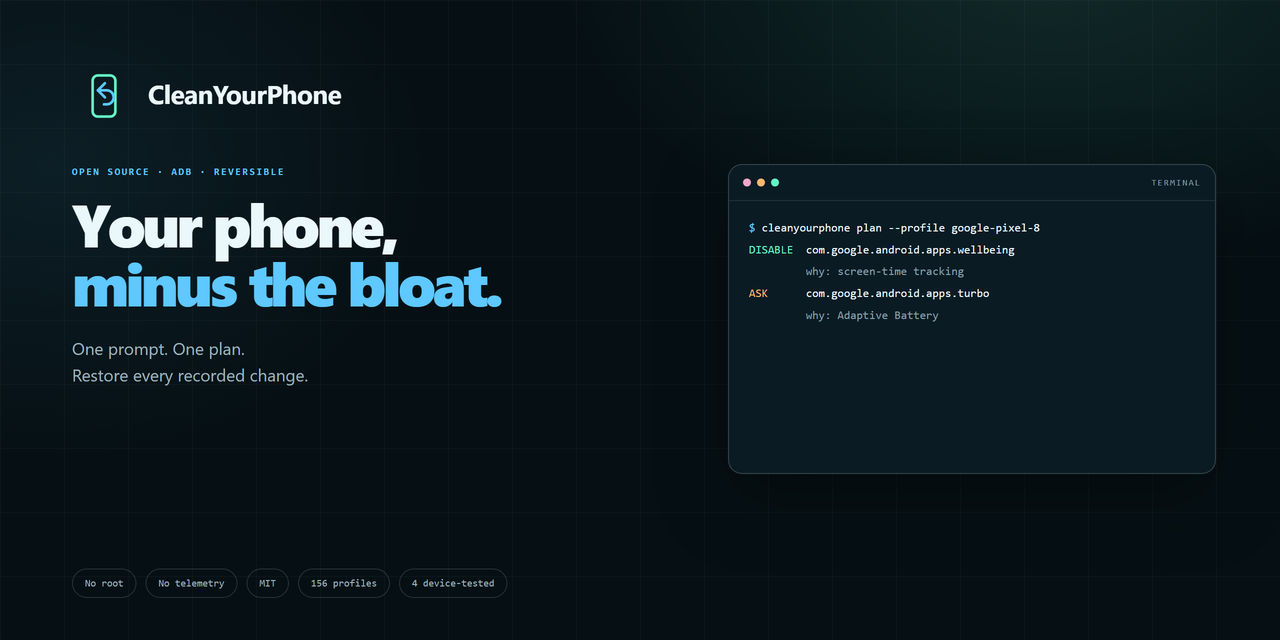
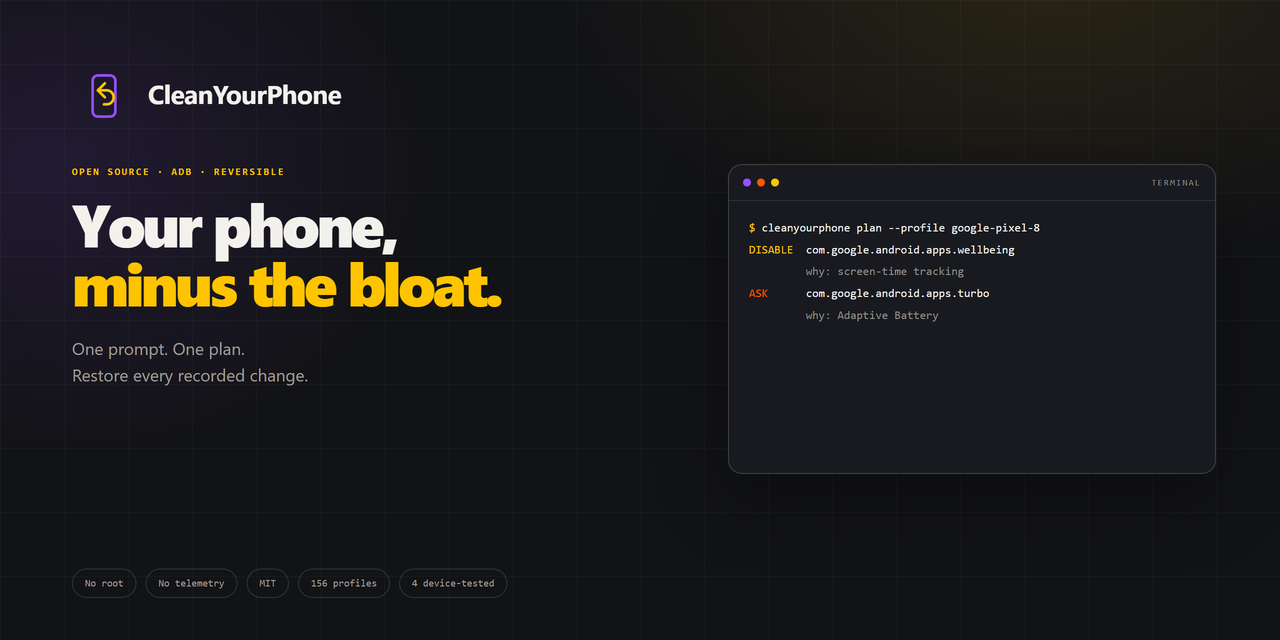
brand: switch to the amber/violet palette
- Use graphite #121316, violet #9650FF, amber #FFC400 and warning orange #FF5500.\n- Update all logo variants, README badges, banner and social preview.\n- Keep the contained-return mark and the CleanYourPhone name.

diff --git a/docs/BRAND.md b/docs/BRAND.md
@@ -46,13 +46,14 @@ never irreversible deletion.
 
 | Color | Role |
 |---|---|
-| Navy `#061014` | Primary background, icon tile, one-color mark on light surfaces. |
-| Mint `#64F4C4` | Phone structure, stability, confirmed states and what stays intact. |
-| Cyan `#5EC8FF` | Return gesture, actions, links, commands and active information. |
-| Text `#EAF7FB` | Headlines and wordmark on navy. |
-| Muted `#9DB4BF` | Secondary text; never part of the essential symbol. |
+| Graphite `#121316` | Primary background, icon tile, one-color mark on light surfaces. |
+| Violet `#9650FF` | Phone structure, links, secondary states and what stays intact. |
+| Amber `#FFC400` | Return gesture, primary actions, commands and active information. |
+| Orange `#FF5500` | Only `ASK` and warning states; never a decorative accent. |
+| Text `#F3F1EC` | Headlines and wordmark on graphite. |
+| Muted `#A19E96` | Secondary text; never part of the essential symbol. |
 
-Cyan and mint are functional accents, not decoration or gradients.
+Amber, violet and orange are functional accents, not decoration or gradients.
 
 ## Typography
 
@@ -74,7 +75,7 @@ from the previous mark is retired because it reads as generic "magic cleaner".
 |---|---|
 | `assets/logo.svg` | Primary app-icon tile, 64×64, dark background. |
 | `assets/favicon.svg` | Simplified 32×32 favicon. |
-| `assets/logo-mark.svg` | Mark-only, transparent, cyan/mint. |
+| `assets/logo-mark.svg` | Mark-only, transparent, violet/amber. |
 | `assets/logo-mono.svg` | One-color mark for light backgrounds. |
 | `assets/logo-lockup.svg` | Horizontal mark + wordmark for dark backgrounds. |
 | `assets/logo-lockup-mono.svg` | Horizontal mark + wordmark for light backgrounds. |
@@ -90,8 +91,8 @@ The same files exist in `cleanyourphone-web/assets/` for the website.
 
 ### Color use
 
-- Dark backgrounds: primary tile or the cyan/mint mark.
-- Light backgrounds: the monochrome `#061014` mark or mono lockup. Do not put the cyan/mint mark on
+- Dark backgrounds: primary tile or the violet/amber mark.
+- Light backgrounds: the monochrome `#121316` mark or mono lockup. Do not put the violet/amber mark on
   white or busy imagery.
 - Do not use color as the only state indicator in UI; pair it with a label.
 
@@ -109,7 +110,7 @@ The same files exist in `cleanyourphone-web/assets/` for the website.
   full lockup there; it would duplicate the name.
 - **Footer:** the same tile at 26 px.
 - **Favicon:** `assets/favicon.svg`; check it in light and dark browser tabs.
-- **README banner:** navy background, large lockup, tagline and plenty of negative space. Export PNG
+- **README banner:** graphite background, large lockup, tagline and plenty of negative space. Export PNG
   at high resolution and keep both repositories in sync.
 - **Social preview:** 1280×640 with the lockup and tagline as the main hierarchy. No mockups,
   sparkles or small print; the symbol must survive the thumbnail.

diff --git a/README.es.md b/README.es.md
@@ -19,11 +19,11 @@
 
 <p align="center">
   <a href="https://github.com/jparedesDS/cleanyourphone/actions/workflows/ci.yml"><img src="https://github.com/jparedesDS/cleanyourphone/actions/workflows/ci.yml/badge.svg" alt="CI"></a>
-  <img src="https://img.shields.io/badge/license-MIT-64f4c4?labelColor=061014" alt="MIT">
-  <img src="https://img.shields.io/badge/python-3.10%2B-64f4c4?labelColor=061014" alt="Python 3.10+">
-  <img src="https://img.shields.io/badge/telemetry-none-64f4c4?labelColor=061014" alt="Sin telemetría">
-  <img src="https://img.shields.io/badge/profiles-156-5ec8ff?labelColor=061014" alt="156 perfiles">
-  <a href="https://github.com/jparedesDS/cleanyourphone/releases"><img src="https://img.shields.io/github/v/release/jparedesDS/cleanyourphone?color=64f4c4&labelColor=061014" alt="release"></a>
+  <img src="https://img.shields.io/badge/license-MIT-ffc400?labelColor=121316" alt="MIT">
+  <img src="https://img.shields.io/badge/python-3.10%2B-ffc400?labelColor=121316" alt="Python 3.10+">
+  <img src="https://img.shields.io/badge/telemetry-none-ffc400?labelColor=121316" alt="Sin telemetría">
+  <img src="https://img.shields.io/badge/profiles-156-ffc400?labelColor=121316" alt="156 perfiles">
+  <a href="https://github.com/jparedesDS/cleanyourphone/releases"><img src="https://img.shields.io/github/v/release/jparedesDS/cleanyourphone?color=ffc400&labelColor=121316" alt="release"></a>
 </p>
 
 # CleanYourPhone

diff --git a/README.md b/README.md
@@ -19,11 +19,11 @@
 
 <p align="center">
   <a href="https://github.com/jparedesDS/cleanyourphone/actions/workflows/ci.yml"><img src="https://github.com/jparedesDS/cleanyourphone/actions/workflows/ci.yml/badge.svg" alt="CI"></a>
-  <img src="https://img.shields.io/badge/license-MIT-64f4c4?labelColor=061014" alt="MIT">
-  <img src="https://img.shields.io/badge/python-3.10%2B-64f4c4?labelColor=061014" alt="Python 3.10+">
-  <img src="https://img.shields.io/badge/telemetry-none-64f4c4?labelColor=061014" alt="No telemetry">
-  <img src="https://img.shields.io/badge/profiles-156-5ec8ff?labelColor=061014" alt="156 profiles">
-  <a href="https://github.com/jparedesDS/cleanyourphone/releases"><img src="https://img.shields.io/github/v/release/jparedesDS/cleanyourphone?color=64f4c4&labelColor=061014" alt="release"></a>
+  <img src="https://img.shields.io/badge/license-MIT-ffc400?labelColor=121316" alt="MIT">
+  <img src="https://img.shields.io/badge/python-3.10%2B-ffc400?labelColor=121316" alt="Python 3.10+">
+  <img src="https://img.shields.io/badge/telemetry-none-ffc400?labelColor=121316" alt="No telemetry">
+  <img src="https://img.shields.io/badge/profiles-156-ffc400?labelColor=121316" alt="156 profiles">
+  <a href="https://github.com/jparedesDS/cleanyourphone/releases"><img src="https://img.shields.io/github/v/release/jparedesDS/cleanyourphone?color=ffc400&labelColor=121316" alt="release"></a>
 </p>
 
 # CleanYourPhone

diff --git a/CHANGELOG.md b/CHANGELOG.md
@@ -8,7 +8,8 @@ All notable changes to CleanYourPhone are documented here. The format is based o
 
 ### Changed
 
-- Final logo system: the sparkle is replaced by a contained return arrow, with primary, mark-only,
+- Final logo system and palette: graphite `#121316`, violet `#9650FF`, amber `#FFC400` and warning
+  orange `#FF5500`. The sparkle is replaced by a contained return arrow, with primary, mark-only,
   monochrome, favicon and horizontal lockup assets. The brand rules are in `docs/BRAND.md`.
 
 ## [0.2.1] - 2026-11-02
